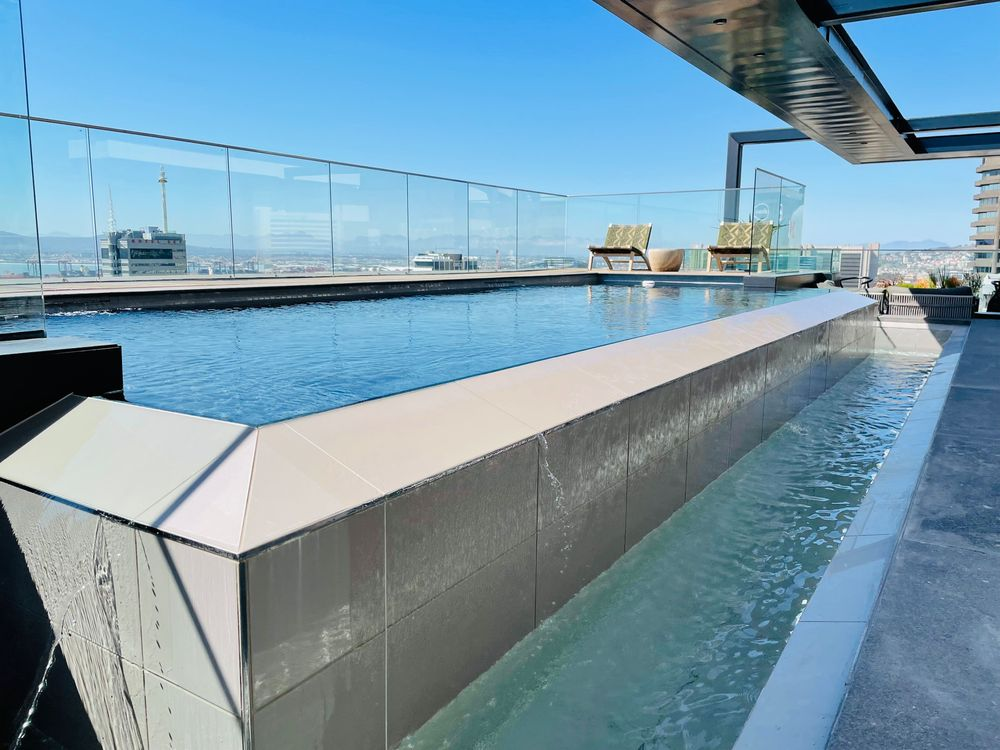
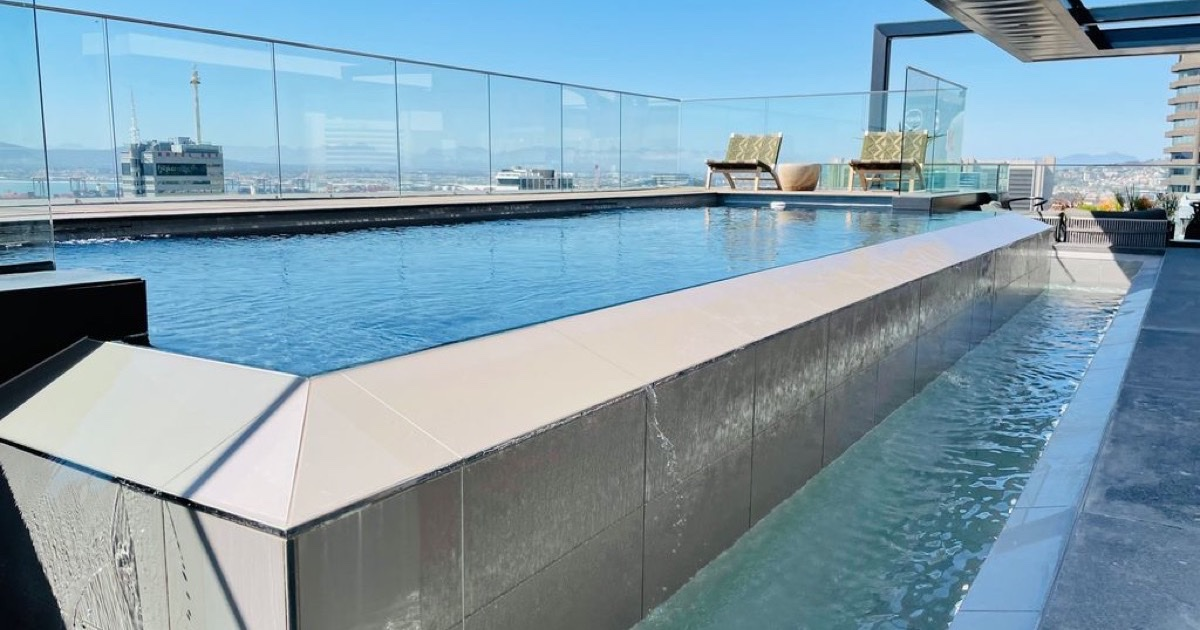
Update social share image, canonical domain, and Docklands hero
- Default OG/share image → 16 On Bree rooftop pool, now a proper 1200x630
  (matches the width/height declared in metadata; was 1000x750).
- Canonical base URL default → non-www (https://urbanelephant.co.za) to match
  the site's redirect. Fixes canonical/og/sitemap/robots all pointing at www.
- The Docklands main photo → new street-level exterior shot.

diff --git a/src/app/layout.tsx b/src/app/layout.tsx
@@ -20,7 +20,7 @@ const biko = localFont({
 });
 
 export const metadata: Metadata = {
-  metadataBase: new URL(process.env.NEXT_PUBLIC_SITE_URL || "https://www.urbanelephant.co.za"),
+  metadataBase: new URL(process.env.NEXT_PUBLIC_SITE_URL || "https://urbanelephant.co.za"),
   // Brand every page's <title>. Pages set a bare title (e.g. "About") and Next
   // appends the suffix → "About | Urban Elephant Hotel and Tours". Titles that
   // already carry the brand opt out via `title.absolute` (see i18n-content.ts).

diff --git a/src/lib/seo.ts b/src/lib/seo.ts
@@ -1,7 +1,7 @@
 import { routing } from "@/i18n/routing";
 
 export const SITE_URL =
-  process.env.NEXT_PUBLIC_SITE_URL || "https://www.urbanelephant.co.za";
+  process.env.NEXT_PUBLIC_SITE_URL || "https://urbanelephant.co.za";
 
 function joinPath(path: string): string {
   if (!path || path === "/") return "";

diff --git a/src/app/robots.ts b/src/app/robots.ts
@@ -1,6 +1,6 @@
 import type { MetadataRoute } from "next";
 
-const baseUrl = process.env.NEXT_PUBLIC_SITE_URL || "https://www.urbanelephant.co.za";
+const baseUrl = process.env.NEXT_PUBLIC_SITE_URL || "https://urbanelephant.co.za";
 
 export default function robots(): MetadataRoute.Robots {
   return {
